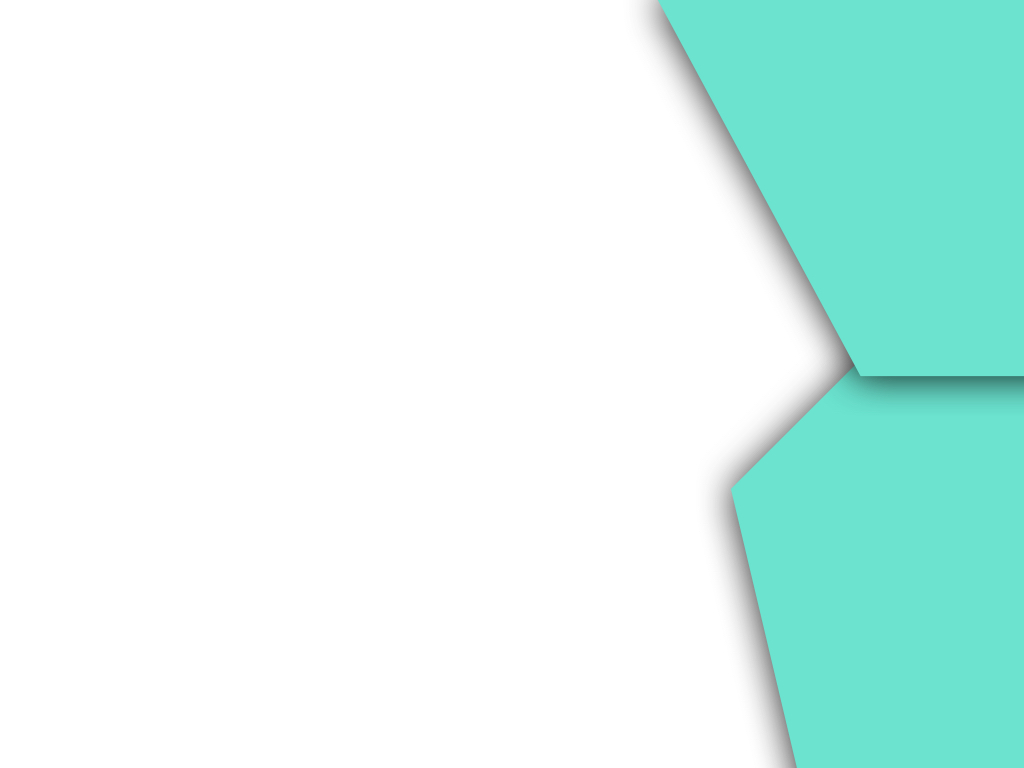
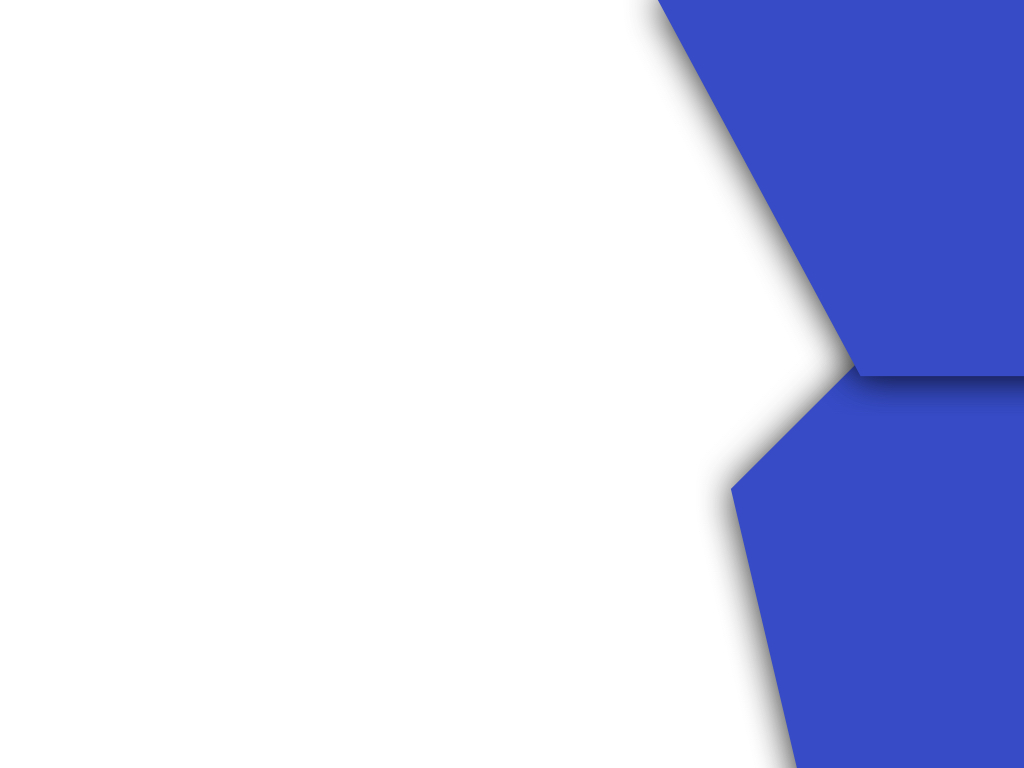
trying to fix the controllers and routes with players and bookings

Changed region(s): [[0.625, 0.0, 1.0, 1.0]]

diff --git a/app/assets/stylesheets/components/_card-player.scss b/app/assets/stylesheets/components/_card-player.scss
@@ -45,14 +45,14 @@
 // }
 
 .btn-primary {
-  background-color: $footrent-green;
-  border: 1px solid $footrent-green;
+  background-color: $footrent;
+  border: 1px solid $footrent;
   color: white;
     &:hover {
     text-decoration: none;
-    color: $footrent-green;
+    color: $footrent;
     background-color: white;
-    border: 1px solid $footrent-green;
+    border: 1px solid $footrent;
   }
 }
 
@@ -65,7 +65,7 @@
   color: rgb(100, 100, 100);
   position: relative;
   margin: 10px;
-  border: 1px solid $footrent-green;
+  border: 1px solid $footrent;
 }
 
 .card-category {
@@ -81,7 +81,7 @@
   right: 10px;
   top: 10px;
   width: 80px;
-  border: 1px solid $footrent-green;
+  border: 1px solid $footrent;
   border-radius: 50%;
 }
 
@@ -102,10 +102,10 @@
 }
 
 .card-description a {
-  color: $footrent-green;
+  color: $footrent;
   &:hover {
     text-decoration: none;
-    color: $footrent-green;
+    color: $footrent;
   }
 }
 
@@ -123,7 +123,7 @@
   line-height: normal;
   font-size: 20px;
   color: #FEFEFE;
-  background-color: $footrent-green;
+  background-color: $footrent;
   margin-left: 50px;
 }
 

diff --git a/app/assets/stylesheets/components/_navbar.scss b/app/assets/stylesheets/components/_navbar.scss
@@ -46,12 +46,12 @@
   height: 40px;
   left: 1129px;
   top: 40px;
-  border: 1.5px solid $footrent-green;
+  border: 1.5px solid $footrent;
   box-sizing: border-box;
   border-radius: 10px;
   text-align: center;
   padding: 10px 15px;
-  color: $footrent-green;
+  color: $footrent;
 }
 
 .btn-medium:hover {
@@ -66,7 +66,7 @@
   font-size: 14px;
 }
 .navbar-wagon-link:hover {
-  color: $footrent-green;
+  color: $footrent;
   text-decoration: none;
 }
 

diff --git a/app/assets/stylesheets/components/_buttons.scss b/app/assets/stylesheets/components/_buttons.scss
@@ -1,10 +1,10 @@
 .btn-green {
   width: 265px;
   height: 68px;
-  border-radius: 10px;
+  border-radius: 40px;
   box-shadow: 0px 4px 4px rgba(0, 0, 0, 0.15);
   line-height: normal;
-  font-size: 24px;
+  font-size: 18px;
   color: #FEFEFE;
-  background-color: #16E7CF;
+  background-color: $footrent;
 }

diff --git a/app/assets/stylesheets/components/_show-player.scss b/app/assets/stylesheets/components/_show-player.scss
@@ -14,7 +14,7 @@
 }
 
 .avatar img{
-  border: 3px solid $footrent-green;
+  border: 3px solid $footrent;
   box-sizing: border-box;
   border-radius: 128px;
   height: 200px;
@@ -54,7 +54,7 @@
 }
 
 .card-product-infos h2 {
-  color: $footrent-green;
+  color: $footrent;
 }
 
 .stats {

diff --git a/app/assets/stylesheets/config/_colors.scss b/app/assets/stylesheets/config/_colors.scss
@@ -8,4 +8,4 @@ $orange: #E67E22;
 $green: #32B796;
 $gray: #000000;
 $light-gray: #F4F4F4;
-$footrent-green: #1CE7CF;
+$footrent: #304CCD;

diff --git a/app/controllers/bookings_controller.rb b/app/controllers/bookings_controller.rb
@@ -1,23 +1,22 @@
 class BookingsController < ApplicationController
+  before_action :set_player, except: :destroy
+
   def index
-    @club = Club.find(params[:club_id])
     @bookings = Booking.where(club_id: current_club.id)
   end
 
   def show
-    @club = Club.find(params[:club_id])
     @booking = Booking.find(params[:id])
   end
 
   def new
-    @club = Club.find(params[:club_id])
     @booking = Booking.new
   end
 
   def create
-    @club = Club.find(params[:club_id])
     @booking = Booking.new(booking_params)
-    @booking.club = @club
+    @booking.club = current_club
+    @booking.player = @player
 
     if @booking.save
       redirect_to club_bookings_path
@@ -36,5 +35,9 @@ class BookingsController < ApplicationController
 
   def booking_params
     params.require(:booking).permit(:start_date, :end_date)
+  end
+
+  def set_player
+    @player = Player.find(params[:player_id])
   end
 end

diff --git a/config/routes.rb b/config/routes.rb
@@ -4,11 +4,10 @@ Rails.application.routes.draw do
 
   resources :players do
     resources :reviews
+    resources :bookings
   end
 
   get '/my_players', to: 'players#my_players'
-  resources :clubs do
-    resources :bookings
-  end
+  resources :clubs
   # For details on the DSL available within this file, see http://guides.rubyonrails.org/routing.html
 end
